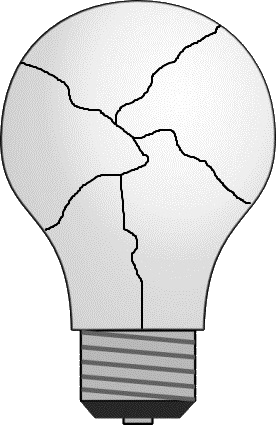
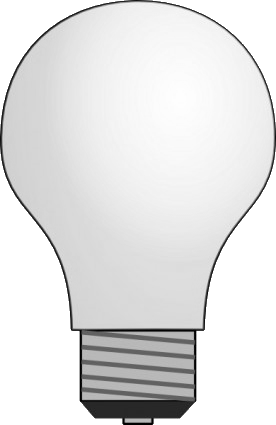
Changed the images that flash when you start the game.

diff --git a/lightBulbGame/index.html b/lightBulbGame/index.html
@@ -34,9 +34,13 @@ function preload()
     game.load.image('piece3', 'assets/piece3.png');
     game.load.image('piece4', 'assets/piece4.png');
     game.load.image('piece5', 'assets/piece5.png');
-    game.load.image('dead_bulb', 'assets/lightbulb_bw.png');
     game.load.image('lightbulb', 'assets/lightbulb.png');
     game.load.image('black', 'assets/black.png');
+
+    game.load.image('dead1', 'assets/lightbulb_bw_1');
+    game.load.image('dead2', 'assets/lightbulb_bw_2');
+    game.load.image('dead3', 'assets/lightbulb_bw_3');
+    game.load.image('dead4', 'assets/lightbulb_bw_4');
 
     game.load.image('beam', 'assets/beam.png');
     game.load.spritesheet('particles', 'assets/particleSheet.png', 12.5, 10);
@@ -53,8 +57,8 @@ var platform_8_m;
 var platform_12_m;
 var teleporter;
 var light;
-var broken_light;
 var timer;
+var bulbs;
 
 var piece1;
 var piece2;
@@ -74,8 +78,10 @@ function create()
     var t = game.add.text(game.world.centerX, 100, text, style); 
     t.anchor.setTo(0.5, 0.5);
 
-    broken_light = game.add.sprite(317.2, 197.5, 'dead_bulb');
-    broken_light.scale.setTo(.6,.6)
+    dead1 = game.add.sprite(317.2, 197.5, 'dead1');
+    dead2 = game.add.sprite(317.2, 197.5, 'dead2');
+    dead3 = game.add.sprite(317.2, 197.5, 'dead3');
+    dead4 = game.add.sprite(317.2, 197.5, 'dead4');
 
     light = game.add.sprite(317.2, 197.5, 'lightbulb');
     light.scale.setTo(.6,.6);
@@ -103,32 +109,31 @@ function create()
 
 function actionOnClick () 
 {
-    brokenToTop();
-    setTimeout(fixedToTop, 500);
-    setTimeout(brokenToTop, 1000);
-    setTimeout(fixedToTop, 1400);
-    setTimeout(brokenToTop, 1800);
-    setTimeout(fixedToTop, 2050);
-    setTimeout(brokenToTop, 2300);
-    setTimeout(fixedToTop, 2400);
-    setTimeout(brokenToTop, 2500);
-    setTimeout(fixedToTop, 2550);
-    setTimeout(brokenToTop, 2600);
-    setTimeout(fixedToTop, 2650);
-    setTimeout(brokenToTop, 2700);
-    setTimeout(fixedToTop, 2750);
-    setTimeout(brokenToTop, 2800);
-    setTimeout(fixedToTop, 2850);
-    setTimeout(brokenToTop, 2900);
-    setTimeout(fixedToTop, 2950);
-    setTimeout(brokenToTop, 3000);
-    setTimeout(fixedToTop, 3050);
-    setTimeout(brokenToTop, 3100);
-    setTimeout(fixedToTop, 3150);
-    setTimeout(brokenToTop, 3200);
-    setTimeout(cutToBlack, 3250);
+    setTimeout(function() {bulbToTop(dead1)}, 10);
+    setTimeout(function() {bulbToTop(light)}, 500);
+    setTimeout(function() {bulbToTop(dead2)}, 1000);
+    setTimeout(function() {bulbToTop(light)}, 1400);
+    setTimeout(function() {bulbToTop(dead3)}, 1800);
+    setTimeout(function() {bulbToTop(light)}, 2050);
+    setTimeout(function() {bulbToTop(dead4)}, 2300);
+    setTimeout(function() {bulbToTop(light)}, 2500);
+    setTimeout(function() {bulbToTop(dead4)}, 2600);
+    setTimeout(function() {bulbToTop(light)}, 2675);
+    setTimeout(function() {bulbToTop(dead4)}, 2750);
+    setTimeout(function() {bulbToTop(light)}, 2825);
+    setTimeout(function() {bulbToTop(dead4)}, 2900);
+    setTimeout(function() {bulbToTop(light)}, 2950);
+    setTimeout(function() {bulbToTop(dead4)}, 3000);
+    setTimeout(function() {bulbToTop(light)}, 3050);
+    setTimeout(function() {bulbToTop(dead4)}, 3100);
+    setTimeout(function() {bulbToTop(light)}, 3150);
+    setTimeout(function() {bulbToTop(dead4)}, 3200);
+    setTimeout(cutToBlack, 3220);
+    
+    button.kill();
+    button2.kill();
 
-    setTimeout(loadLevel1, 4000);
+    setTimeout(loadLevel1, 4400);
 }
 
 function cutToBlack()
@@ -136,14 +141,9 @@ function cutToBlack()
     game.add.sprite(0, 0, 'black');
 }
 
-function brokenToTop()
+function bulbToTop(object)
 {
-    broken_light.body.sprite.bringToTop();
-}
-
-function fixedToTop()
-{
-    light.body.sprite.bringToTop();
+    object.body.sprite.bringToTop();
 }
 
 function instructions()
